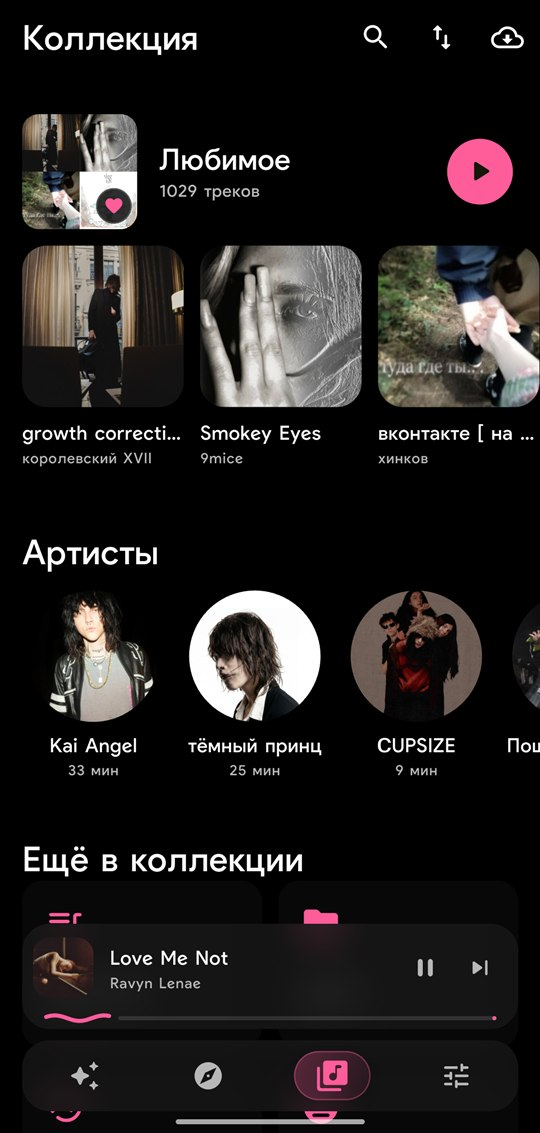
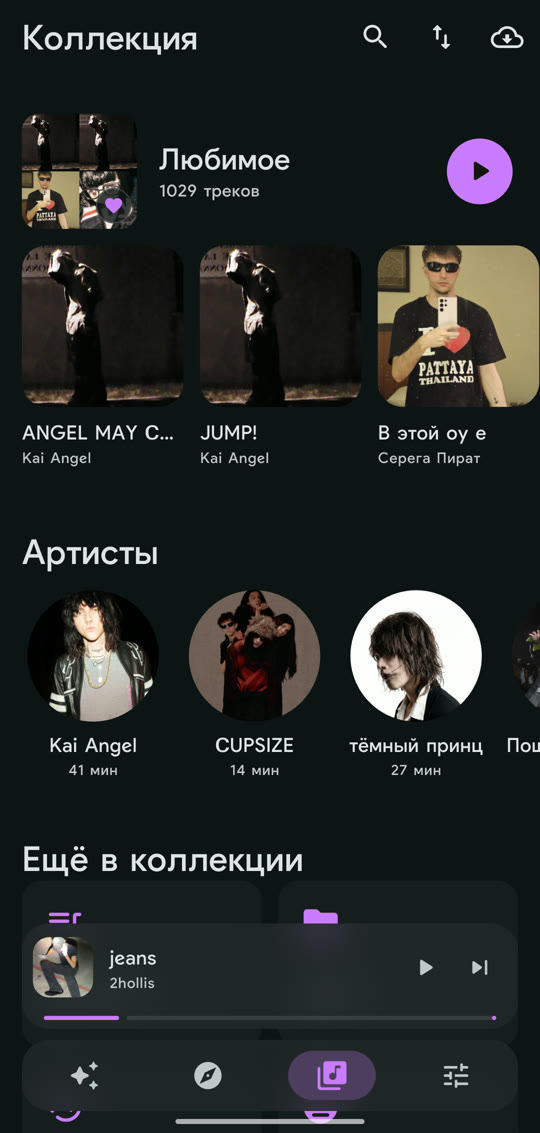
README: новые скриншоты 1.4.2, 220 тестов

diff --git a/README.md b/README.md
@@ -10,7 +10,7 @@
 <a href="https://github.com/krinix1337/mimikoPlayer/releases/latest"><img alt="Версия 1.4.2" src="https://img.shields.io/badge/версия-1.4.2-D8F544?style=for-the-badge&labelColor=1C1B1F"></a>
 <img alt="Android 8.0+" src="https://img.shields.io/badge/Android-8.0%2B-3DDC84?style=for-the-badge&logo=android&logoColor=white&labelColor=1C1B1F">
 <a href="https://flutter.dev"><img alt="Flutter 3.47" src="https://img.shields.io/badge/Flutter-3.47-02569B?style=for-the-badge&logo=flutter&logoColor=white&labelColor=1C1B1F"></a>
-<img alt="203 теста" src="https://img.shields.io/badge/тесты-203-22C7A9?style=for-the-badge&labelColor=1C1B1F">
+<img alt="220 тестов" src="https://img.shields.io/badge/тесты-220-22C7A9?style=for-the-badge&labelColor=1C1B1F">
 <img alt="Лицензия MIT" src="https://img.shields.io/badge/лицензия-MIT-A78BFA?style=for-the-badge&labelColor=1C1B1F">
 
 <h3>Яндекс Музыка, SoundCloud и свои файлы — в одном плеере</h3>
